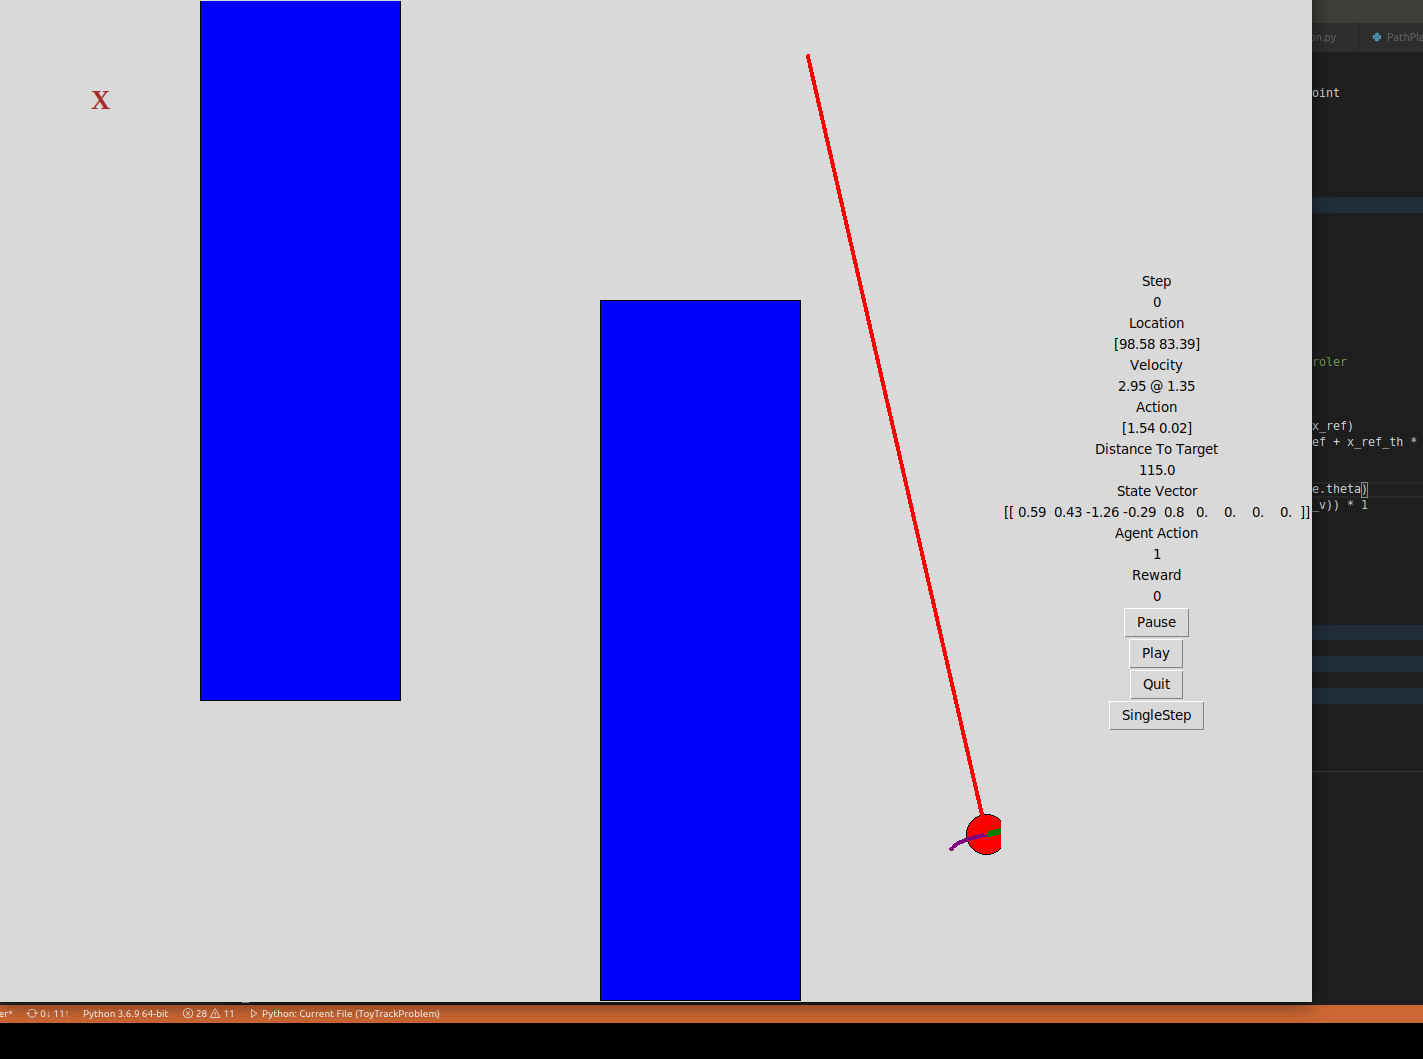
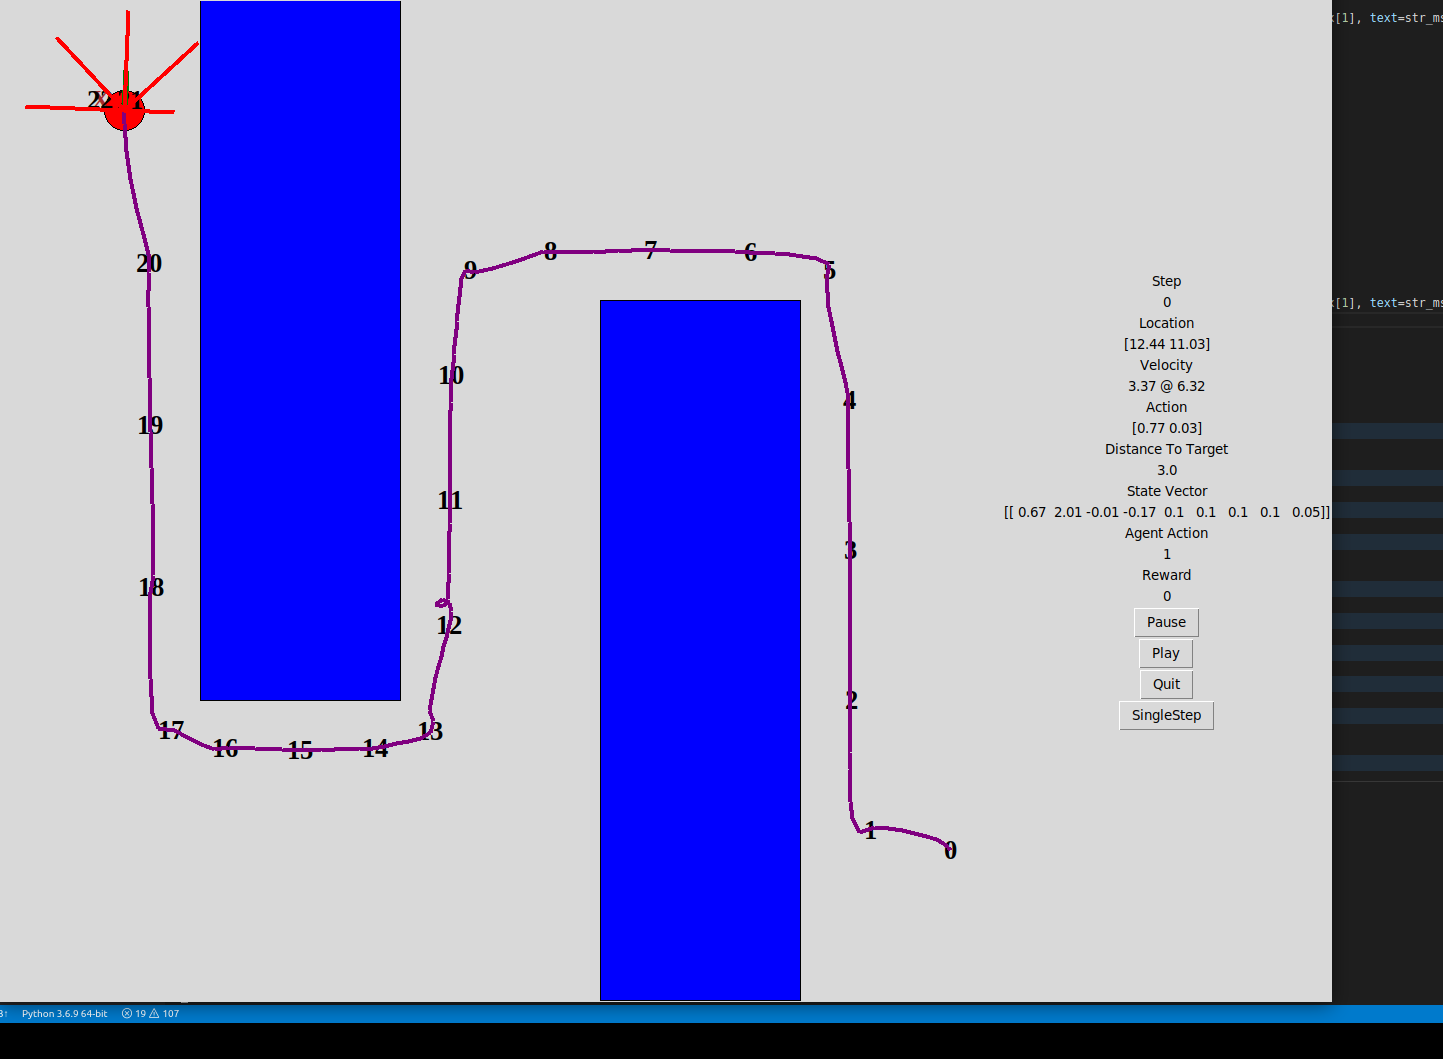
Fixed angle bug mainly

diff --git a/Interface.py b/Interface.py
@@ -158,6 +158,25 @@ class Interface:
 
         self.root.mainloop()
 
+    def show_path_setup_root(self, path):
+        # print("Setup root called")
+        p0 = [50, 50]
+        px = f.sub_locations(self.prev_px, p0)
+
+        self.canv.move(self.o, px[0], px[1])
+        
+        self.canv.pack()
+
+        for i, point in enumerate(path.route):
+            x = self._scale_input(point.x)
+            str_msg = str(i)
+            self.end_x = self.canv.create_text(x[0], x[1], text=str_msg, fill='black', font = "Times 20 bold")
+
+            self.canv.pack()   
+
+        self.root.after(0, self.run_interface_loop)
+        self.root.mainloop()
+
 # main function with logic
     def run_interface_loop(self):
         if  not self.pause_flag:
@@ -310,8 +329,19 @@ class InterfaceManager:
             self.replay_ep("SimulationTests/" + file_name)
 
 
+# externally called
 def show_path(track, path):
     interface = Interface(track, 100)
     interface.show_planned_path(path)
 
+def render_ep(track, path, sim_mem, screen_name_path="DataRecords/PathTracker", pause=FALSE):
+    dt = 60
+    interface = Interface(track, dt)
+    interface.save_shot_path = screen_name_path
+    interface.pause_flag = pause
+
+    for step in sim_mem.steps:
+        interface.step_q.put(step)
+
+    interface.show_path_setup_root(path)
 

diff --git a/PathTracker.py b/PathTracker.py
@@ -25,16 +25,20 @@ class ControlSystem:
         # run th control
         x_ref_th = self._get_xref_th(state.x, x_ref)
         th_ref_combined = th_ref * self.k_th_ref + x_ref_th * (1- self.k_th_ref) # no feedback
-        print(f"Theta ref: {th_ref_combined}")
+        # print(f"Theta ref: {th_ref_combined}")
         new_v = state.v + a
         # e_th = abs(th_ref_combined) - abs(state.theta)
         e_th = th_ref_combined - state.theta
         if e_th > np.pi: # there is a problem here, the angle between -3.14 and + 3.14 is wrong
             e_th = 2 * np.pi - e_th
+        if e_th < - np.pi:
+            e_th = e_th + 2 * np.pi
+
         delta = np.arctan(e_th * self.L / (new_v)) * 1
 
         if abs(delta) > 1:
-            print("Probelms")
+            print("Probelms") 
+            raise ValueError
 
         action = [a, delta]
         return action

diff --git a/RaceSimulation.py b/RaceSimulation.py
@@ -11,7 +11,7 @@ from Config import create_sim_config
 from PathPlanner import A_StarPathFinder
 from TrajectoryOptimisation import optimise_trajectory, add_velocity
 from PathTracker import Tracker
-from Interface import show_path
+from Interface import show_path, render_ep
 
 def get_path(load=False):
     filename = "DataRecords/path_obj.npy"
@@ -57,9 +57,10 @@ def simulation_runner(config):
         # state.print_point("State")
         ref_action = tracker.act(state)
         state, reward, done = env.step(ref_action)
-        print(f"Action: [{ref_action[0]:.2f} ; {ref_action[1]:.4f}]")
+        # print(f"Action: [{ref_action[0]:.2f} ; {ref_action[1]:.4f}]")
 
-    env.render_episode("DataRecords/PathTracker", False)
+    # env.render_episode("DataRecords/PathTracker", False)
+    render_ep(track, path_obj, env.sim_mem)
 
 
 

diff --git a/RaceEnv.py b/RaceEnv.py
@@ -110,14 +110,15 @@ class RaceEnv:
 
     def render_episode(self, screen_name_path, pause=False):
         dt = 60
-        self.interface = Interface(self.track, dt)
-        self.interface.save_shot_path = screen_name_path
-        self.interface.pause_flag = pause
+        interface = Interface(self.track, dt)
+        interface.save_shot_path = screen_name_path
+        interface.pause_flag = pause
 
         for step in self.sim_mem.steps:
-            self.interface.step_q.put(step)
+            interface.step_q.put(step)
 
-        self.interface.setup_root()
+        # self.interface.setup_root()
+        interface.show_path_setup_root()
 
 
 

diff --git a/TrajectoryOptimisation.py b/TrajectoryOptimisation.py
@@ -152,7 +152,10 @@ def add_velocity(path_obj, car=None):
             last_wp = wp
             continue
         gradient = f.get_gradient(last_wp.x, wp.x)
-        last_wp.theta = np.arctan(gradient) - np.pi/2  # gradient to next point
+        theta = np.arctan(gradient) - np.pi/2  # gradient to next point
+        # if theta < 0: # negative theta
+        #     theta = 2 * np.pi + theta
+        last_wp.theta = theta
         last_wp.v = max_v * (np.pi - abs(last_wp.theta)) / np.pi
 
         last_wp = wp

diff --git a/LibFunctions.py b/LibFunctions.py
@@ -1,6 +1,7 @@
 import numpy as np
 from matplotlib import  pyplot as plt
 
+
 def add_locations(x1=[0, 0], x2=[0, 0], dx=1):
     # dx is a scaling factor
     ret = [0.0, 0.0]
